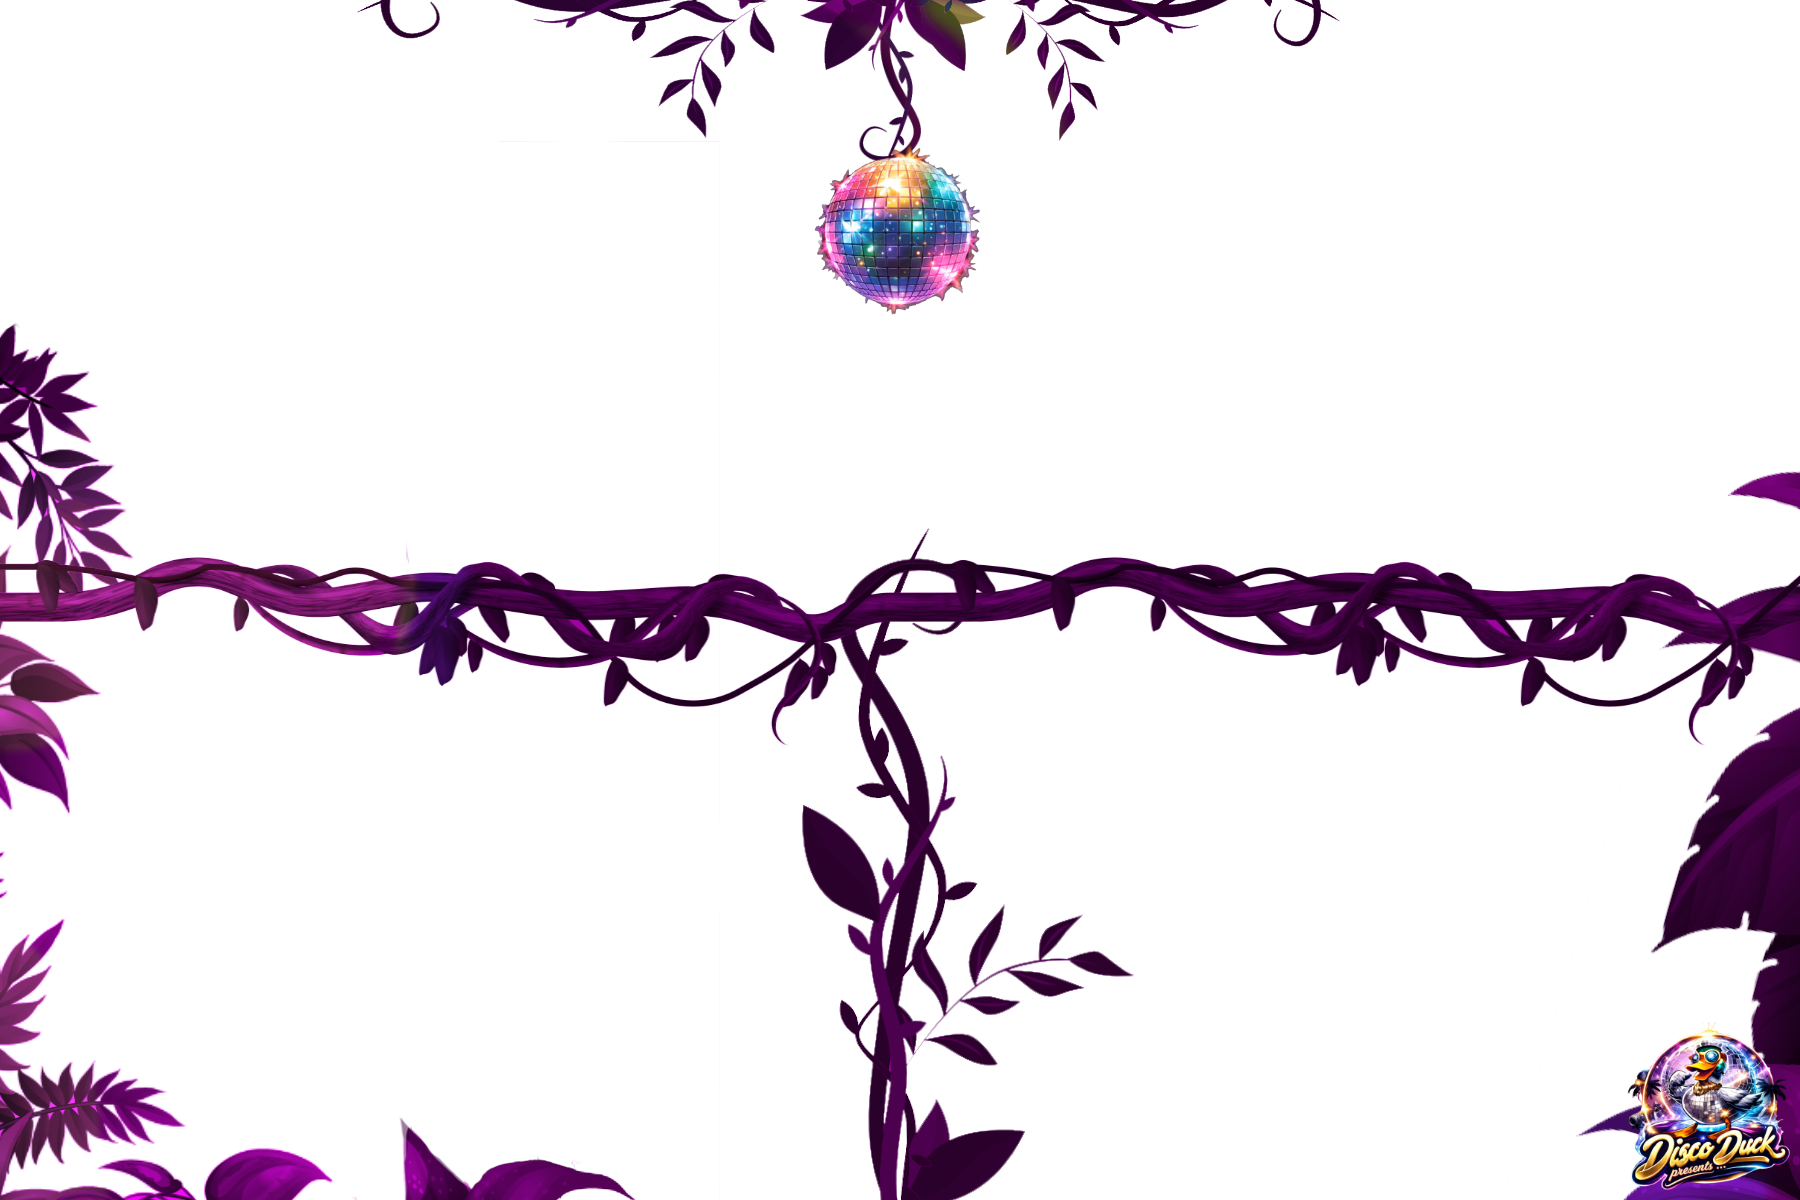
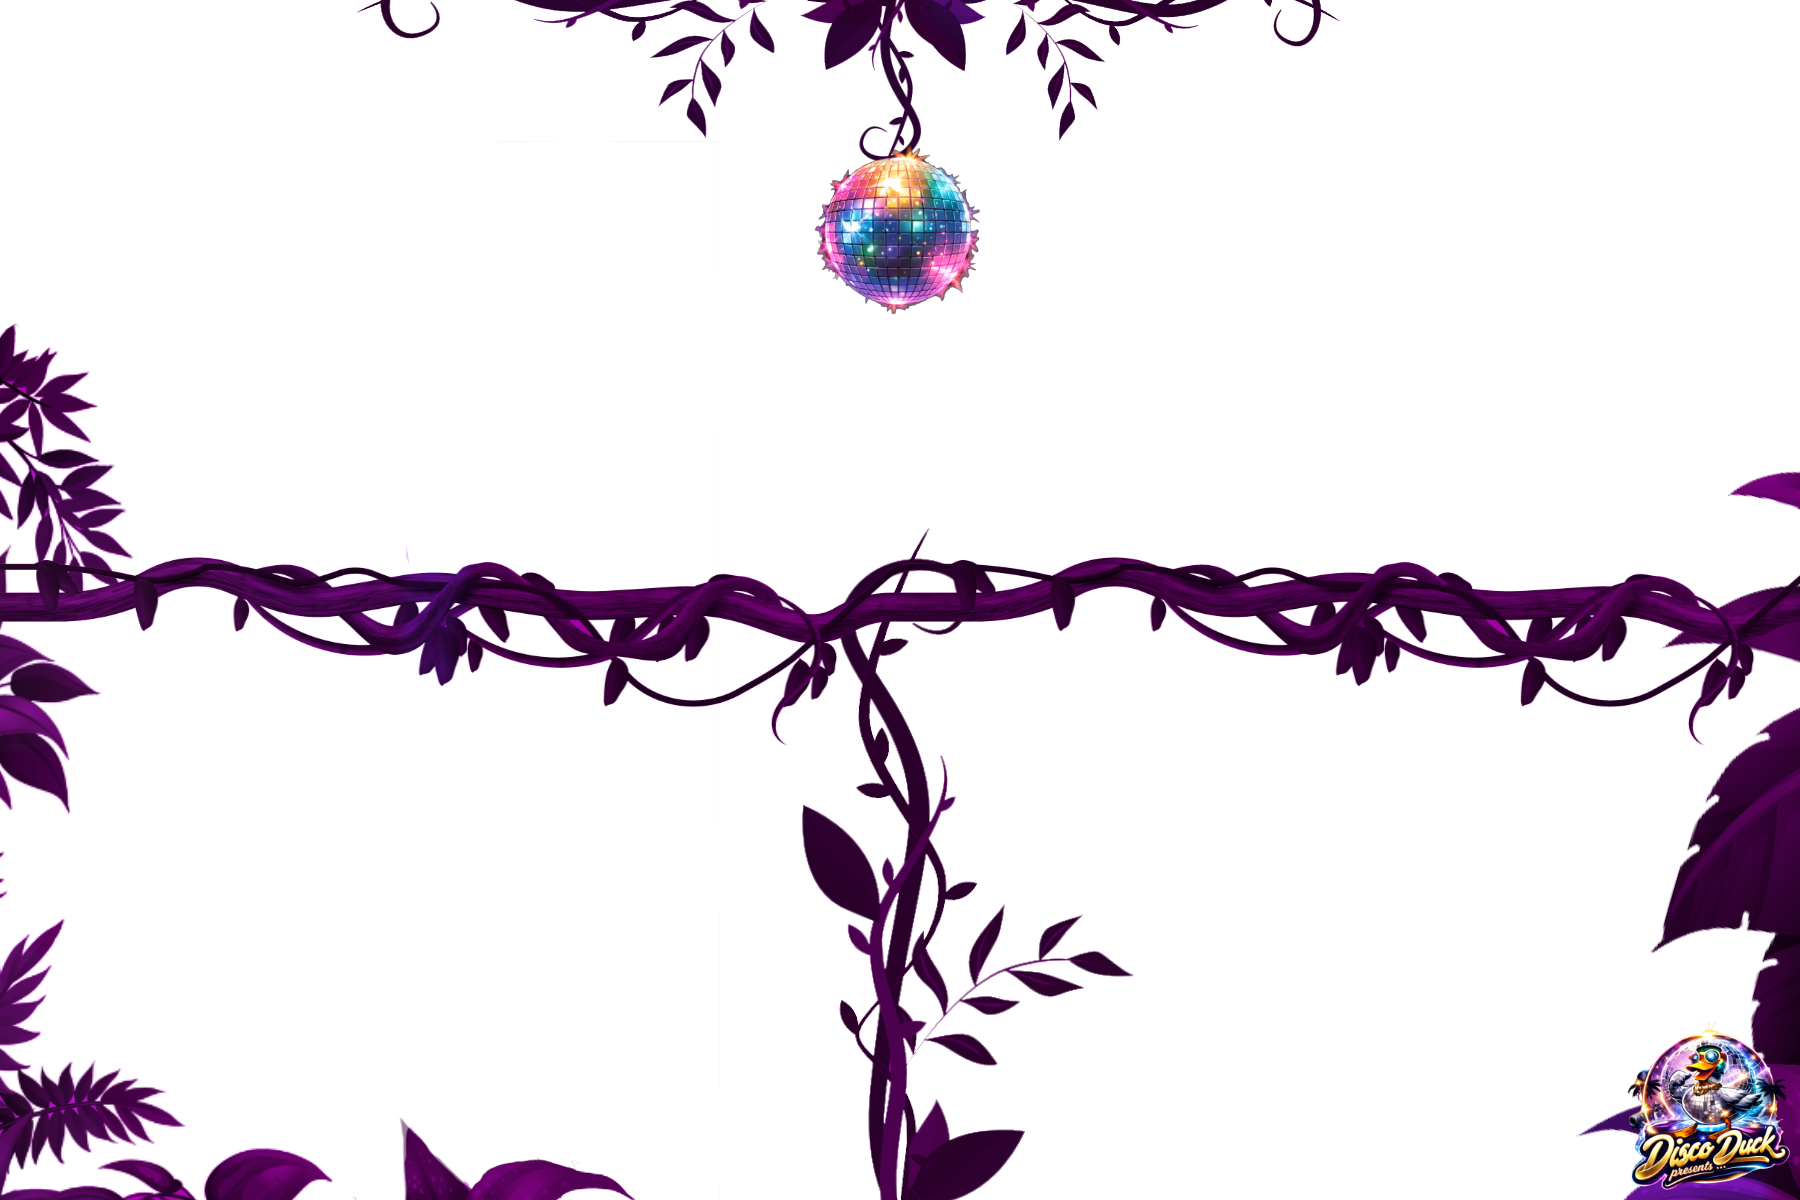
added vertical film strip shots

diff --git a/composite.py b/composite.py
@@ -76,19 +76,19 @@ def build_single(raw_path: str, overlay_path: str | None, output_path: str):
 STRIP_ZONES = [
     # Vertical strip: 4 landscape photos stacked
     # Each zone: (x, y, width, height)
-    (180, 20,  1440, 270),
-    (180, 310, 1440, 270),
-    (180, 600, 1440, 270),
-    (180, 890, 1440, 270),
+    (0,    0, 1200, 450),
+    (0,  450, 1200, 450),
+    (0,  900, 1200, 450),
+    (0, 1350, 1200, 450),
 ]
 
 GRID_ZONES = [
     # 2×2 grid
     # Each zone: (x, y, width, height)
-    (40,  40,  860, 550),
-    (900, 40,  860, 550),
-    (40,  610, 860, 550),
-    (900, 610, 860, 550),
+    (0,   0,   900, 600),
+    (900, 0,   900, 600),
+    (0,   600, 900, 600),
+    (900, 600, 900, 600),
 ]
 
 
@@ -101,7 +101,15 @@ def build_strip(raw_paths: list[str], overlay_path: str | None, output_path: str
         overlay_path: Path to the overlay PNG (or None).
         output_path:  Where to save the final composited JPEG.
     """
-    canvas = Image.new('RGB', CANVAS_SIZE, BG_COLOR)
+    # allow film strip to be portrait orientation instead of landscape
+    if 'strip' in name or 'film' in name:
+        zones = STRIP_ZONES
+        canvas_size = (1200, 1800)
+    else:
+        zones = GRID_ZONES
+        canvas_size = CANVAS_SIZE  # 1800×1200
+
+    canvas = Image.new('RGB', canvas_size, BG_COLOR)
 
     # Determine layout from overlay filename
     zones = GRID_ZONES  # default
@@ -162,97 +170,3 @@ def _cover_fit(img: Image.Image, target_w: int, target_h: int) -> Image.Image:
 
     return img
 
-
-def generate_test_overlay(output_path: str, style: str = 'classic'):
-    """
-    Generate a simple test overlay PNG for development.
-    Run this directly to create overlays/ files for testing:
-
-        python -c "from composite import generate_test_overlay; \\
-                   generate_test_overlay('overlays/overlay_classic.png', 'classic')"
-    """
-    overlay = Image.new('RGBA', CANVAS_SIZE, (0, 0, 0, 0))
-    draw = ImageDraw.Draw(overlay)
-
-    if style == 'classic':
-        # Simple dark border
-        border = 40
-        # Draw border by filling corners/edges with opaque black
-        draw.rectangle([0, 0, CANVAS_W, border], fill=(20, 20, 22, 255))
-        draw.rectangle([0, CANVAS_H - border, CANVAS_W, CANVAS_H], fill=(20, 20, 22, 255))
-        draw.rectangle([0, 0, border, CANVAS_H], fill=(20, 20, 22, 255))
-        draw.rectangle([CANVAS_W - border, 0, CANVAS_W, CANVAS_H], fill=(20, 20, 22, 255))
-        # Event text at bottom
-        draw.text((CANVAS_W // 2, CANVAS_H - 20), "PHOTOBOOTH",
-                  fill=(200, 200, 195, 180), anchor='mb')
-
-    elif style == 'gold':
-        # Corner accents
-        corner_len = 120
-        corner_w = 6
-        gold = (245, 200, 66, 220)
-        # Top-left
-        draw.rectangle([30, 30, 30 + corner_len, 30 + corner_w], fill=gold)
-        draw.rectangle([30, 30, 30 + corner_w, 30 + corner_len], fill=gold)
-        # Top-right
-        draw.rectangle([CANVAS_W - 30 - corner_len, 30, CANVAS_W - 30, 30 + corner_w], fill=gold)
-        draw.rectangle([CANVAS_W - 30 - corner_w, 30, CANVAS_W - 30, 30 + corner_len], fill=gold)
-        # Bottom-left
-        draw.rectangle([30, CANVAS_H - 30 - corner_w, 30 + corner_len, CANVAS_H - 30], fill=gold)
-        draw.rectangle([30, CANVAS_H - 30 - corner_len, 30 + corner_w, CANVAS_H - 30], fill=gold)
-        # Bottom-right
-        draw.rectangle([CANVAS_W - 30 - corner_len, CANVAS_H - 30 - corner_w, CANVAS_W - 30, CANVAS_H - 30], fill=gold)
-        draw.rectangle([CANVAS_W - 30 - corner_w, CANVAS_H - 30 - corner_len, CANVAS_W - 30, CANVAS_H - 30], fill=gold)
-
-    elif style == 'filmstrip':
-        # Sprocket holes + opaque side bars
-        bar_w = 80
-        draw.rectangle([0, 0, bar_w, CANVAS_H], fill=(20, 20, 22, 255))
-        draw.rectangle([CANVAS_W - bar_w, 0, CANVAS_W, CANVAS_H], fill=(20, 20, 22, 255))
-        # Sprocket holes (transparent punch-outs in the bars)
-        for y in range(20, CANVAS_H, 60):
-            draw.rectangle([20, y, 60, y + 30], fill=(0, 0, 0, 0))
-            draw.rectangle([CANVAS_W - 60, y, CANVAS_W - 20, y + 30], fill=(0, 0, 0, 0))
-        # Divider lines between photo zones
-        for y_div in [290, 580, 870]:
-            draw.rectangle([bar_w, y_div, CANVAS_W - bar_w, y_div + 20], fill=(20, 20, 22, 255))
-
-    elif style == 'partygrid':
-        # Grid lines + diagonal pattern overlay
-        mid_x = CANVAS_W // 2
-        mid_y = CANVAS_H // 2
-        line_w = 20
-        draw.rectangle([mid_x - line_w // 2, 0, mid_x + line_w // 2, CANVAS_H], fill=(20, 20, 22, 255))
-        draw.rectangle([0, mid_y - line_w // 2, CANVAS_W, mid_y + line_w // 2], fill=(20, 20, 22, 255))
-        # Outer border
-        border = 20
-        draw.rectangle([0, 0, CANVAS_W, border], fill=(20, 20, 22, 255))
-        draw.rectangle([0, CANVAS_H - border, CANVAS_W, CANVAS_H], fill=(20, 20, 22, 255))
-        draw.rectangle([0, 0, border, CANVAS_H], fill=(20, 20, 22, 255))
-        draw.rectangle([CANVAS_W - border, 0, CANVAS_W, CANVAS_H], fill=(20, 20, 22, 255))
-
-    overlay.save(output_path, 'PNG')
-    print(f"[OVERLAY] Test overlay generated → {output_path} ({style})")
-
-
-# ══════════════════════════════════════════════════════════════
-#  CLI — generate all test overlays
-# ══════════════════════════════════════════════════════════════
-
-if __name__ == '__main__':
-    import sys
-    out_dir = Path('overlays')
-    out_dir.mkdir(exist_ok=True)
-
-    styles = {
-        'overlay_classic.png':   'classic',
-        'overlay_goldcorners.png': 'gold',
-        'overlay_filmstrip.png': 'filmstrip',
-        'overlay_partygrid.png': 'partygrid',
-    }
-
-    for filename, style in styles.items():
-        generate_test_overlay(str(out_dir / filename), style)
-
-    print(f"\nGenerated {len(styles)} test overlays in {out_dir}/")
-    print("Replace these with your real Affinity-designed overlays for production.")
